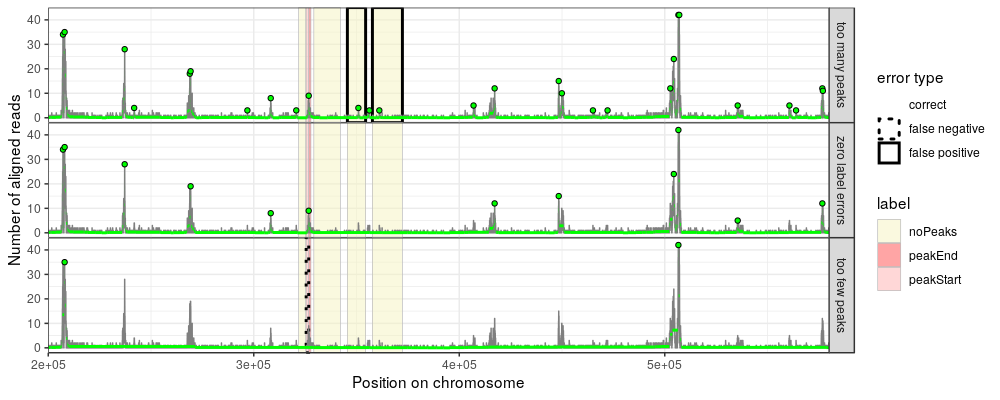
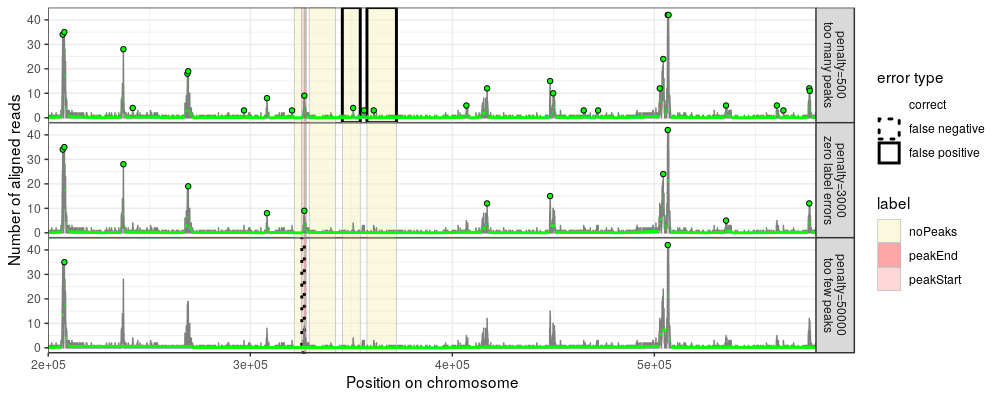
title and zoom

Changed region(s): [[0.062, 0.0, 0.868, 0.93], [0.341, 0.9, 0.527, 0.99], [0.217, 0.9, 0.279, 0.93]]

diff --git a/paper.tex b/paper.tex
@@ -93,10 +93,16 @@
 
 \begin{document}
 
+\maketitle
+
 \begin{figure}
   \centering
   \begin{minipage}{2in}
     \centering
+    \textbf{Unconstrained}
+
+    Sparsity in changes
+
     \begin{tikzpicture}[->,>=latex,shorten >=1pt,auto,node distance=2cm,
       thick,main node/.style={circle,draw}]
 
@@ -108,6 +114,10 @@
   \end{minipage}
   \begin{minipage}{2in}
     \centering
+    \textbf{Up-down constrained}\\
+    Sparsity in modes,\\
+    One change up to/\\
+    down from each mode
     \begin{tikzpicture}[->,>=latex,shorten >=1pt,auto,node distance=2cm,
       thick,main node/.style={circle,draw}]
 
@@ -120,11 +130,15 @@
       (0) edge [bend left] node {$c=1, \lambda, \leq$} (1)
       (start) edge [dashed] (0)
       (0) edge [dashed] (end)
-      (1) edge [bend left] node {$c=-1, 0, \geq$} (0);
+      (1) edge [bend left] node {$c=2, 0, \geq$} (0);
     \end{tikzpicture}
   \end{minipage}
   \begin{minipage}{2in}
     \centering
+    \textbf{Asymmetric multi-modal regression}\\
+    Sparsity in modes,\\
+    Many changes up to/\\
+    down from each mode
     \begin{tikzpicture}[->,>=latex,shorten >=1pt,auto,node distance=2cm,
       thick,main node/.style={circle,draw}]
 
@@ -137,21 +151,34 @@
       (0) edge [bend left] node {$c=1, \lambda, \leq$} (1)
       (start) edge [dashed] (0)
       (0) edge [dashed] (end)
-      (0) edge [loop below] node {$c=2,0,\geq$} (0)
-      (1) edge [loop above] node {$c=3,0,\leq$} (1)
-      (1) edge [bend left] node {$c=-1, 0, \geq$} (0);
+      (0) edge [loop below] node [left] {$c=4,0,\geq$\ \ } (0)
+      (1) edge [loop above] node [right] {\ $c=3,0,\leq$} (1)
+      (1) edge [bend left] node {$c=2, 0, \geq$} (0);
     \end{tikzpicture}
   \end{minipage}
-  \caption{State graphs for two changepoint models. Nodes represent
-    states and solid edges represent changepoints. }
+  \caption{State graphs for three changepoint models. Nodes represent
+    states and solid edges represent changepoints. \textbf{Left:} in
+    this context, the classical unconstrained optimal changepoint
+    model can be represented by the graph with one node and one
+    looping edge with penalty $\lambda$. \textbf{Middle:}
+    non-decreasing changes $c=1$ to each mode $s=1$ must be followed
+    by non-increasing changes $c=2$ to the background state $s=0$, and
+    vice versa. \textbf{Right:} our preliminary code for multi-modal
+    regression adds a looping edge for each state; these allow
+    un-penalized changes up to/down from each mode.}
   \label{fig:state-graph}
 \end{figure}
 
 For genomic data such as ChIP-seq \citep{chip-seq}, it is desirable to
 have a changepoint model which is interpretable in terms of peaks
-(large values) and background noise (small values). We therefore
-propose a model based on the graph shown in
-Figure~\ref{fig:state-graph}. 
+(large values) and background noise (small values). It is also
+desirable for the model to predict the precise locations of peak
+summits (the largest value). We therefore propose a new multi-modal
+regression model which is capable of identifying peak summits, based
+on the constraint graph shown in Figure~\ref{fig:state-graph},
+right. We have previous described a functional pruning algorithm which
+can be used to compute the optimal solution for a given penalty
+$\lambda$ parameter \citep{Hocking-constrained-changepoint-detection}.
 
 \begin{figure}
   \centering
@@ -183,25 +210,66 @@ Figure~\ref{fig:state-graph}.
     (bkg_1) edge [black, bend right] node[below] {$C_{0,1}^\geq$} (bkg_2)
     (bkg_N1) edge [black, bend right] node[below] {$C_{0,N-1}^\geq$} (bkg_N)
     (bkg_t1) edge [black, bend right] node[below] {$C_{0,i-1}^\geq$} (bkg_t)
-    (peak_t1) edge [black, bend left] node[above] {$C_{0,i-1}^\leq$} (peak_t)
+    (peak_t1) edge [black, bend left] node[above] {$C_{1,i-1}^\leq$} (peak_t)
     ;
   \end{tikzpicture}
   \caption{Directed acyclic graph (DAG) representing dynamic
-    programming computations (Algorithm~\ref{algo:GFPOP}) for
-    changepoint model with up-down constraints between adjacent
-    segment means. Nodes in the graph repesent cost functions, and
-    edges represent inputs to the the MinOfTwo sub-routine
-    (solid=changepoint, dotted=no change). There is one column for
-    each data point and one row for each state: the optimal cost of
-    the peak state $s=1$ at data point $i$ is $ C_{1,i}$ (top
-    row); the optimal cost of the background noise state $s=0$ is
-    $ C_{0,i}$ (bottom row). There is only one edge going to
-    $ C_{0,2}$ and $ C_{1,2}$ because the model is
-    constrained to start in the background noise state ($s_1=0$).}
+    programming computations for our preliminary implementation of the
+    asymmetric multi-modal regression model. Nodes in the graph repesent cost
+    functions, and edges represent inputs to the the pointwise
+    $\min\{\}$ operation (solid=changepoint, dotted=no change). There
+    is one column for each data point and one row for each state: the
+    optimal cost of the increasing state $s=1$ at data point $i$ is
+    $ C_{1,i}$ (top row); the optimal cost of the decreasing
+    state $s=0$ is $ C_{0,i}$ (bottom row).}
   \label{fig:computation-graph}
 \end{figure}
 
-\includegraphics[width=\textwidth]{figure-Mono27ac-label-error}
+% \begin{figure}
+%   \centering
+%   \begin{tikzpicture}[->,>=latex,shorten >=1pt,auto,node distance=2.5cm,
+%     thick,main node/.style={circle,draw}]
+%     \node[main node] (peak_t1) {$ C_{1,i-1}$};
+%     \node[main node] (bkg_t1) [below of=peak_t1] {$ C_{0,i-1}$};
+%     \node[main node] (peak_t) [right of=peak_t1] {$ C_{1,i}$};
+%     \node[main node] (bkg_t) [right of=bkg_t1] {$ C_{0,i}$};
+%     \path[every node/.style={font=\small}]
+%     (peak_t1) edge [dotted] node {$ C_{1,i-1}$} (peak_t)
+%     (peak_t1) edge [black, bend right] node [right] {$ C_{1,i-1}^{\geq}$} (bkg_t)
+%     (bkg_t1) edge [dotted] node[midway, below] {$ C_{0,i-1}$} (bkg_t)
+%     (bkg_t1) edge [black, bend left] node[right] {$ C_{0,i-1}^{\leq}+\lambda$} (peak_t)
+%     (bkg_t1) edge [black, bend right] node[below] {$C_{0,i-1}^\geq$} (bkg_t)
+%     (peak_t1) edge [black, bend left] node[above] {$C_{1,i-1}^\leq$} (peak_t)
+%     ;
+%   \end{tikzpicture}
+%   \caption{Directed acyclic graph (DAG) representing dynamic
+%     programming computations for the
+%     symmetric multi-modal regression model. }
+%   \label{fig:computation-graph}
+% \end{figure}
+
+\begin{figure}
+  \centering
+  \includegraphics[width=\textwidth]{figure-Mono27ac-label-error-zoom}
+  \caption{Our previously proposed labeling method and databases can
+    be used to train the new multi-modal regression model, by
+    selecting a penalty that minimizes the number of label
+    errors. \textbf{Top:} penalty=500 results in two false positive
+    noPeaks labels which should have no predicted peak summits (green
+    dots). \textbf{Bottom:} penalty=50000 results in a false negative
+    peakStart label which should have exactly one run of increasing
+    segments. \textbf{Middle:} penalty=3000 results in zero label
+    errors so is a good fit for these data.}
+  \label{fig:label-error}
+\end{figure}
+
+\begin{figure}
+  \centering
+  \includegraphics[width=\textwidth]{figure-Mono27ac-label-error}
+  \caption{Zooming out shows a larger portion of the data in which the algorithm has been used to detect peak summits using three different penalty parameters.}
+  \label{fig:zoom-out}
+\end{figure}
+%\includegraphics[width=\textwidth]{figure-Mono27ac-label-error-zoom2}
 
 \bibliographystyle{abbrvnat}
 \bibliography{refs}
